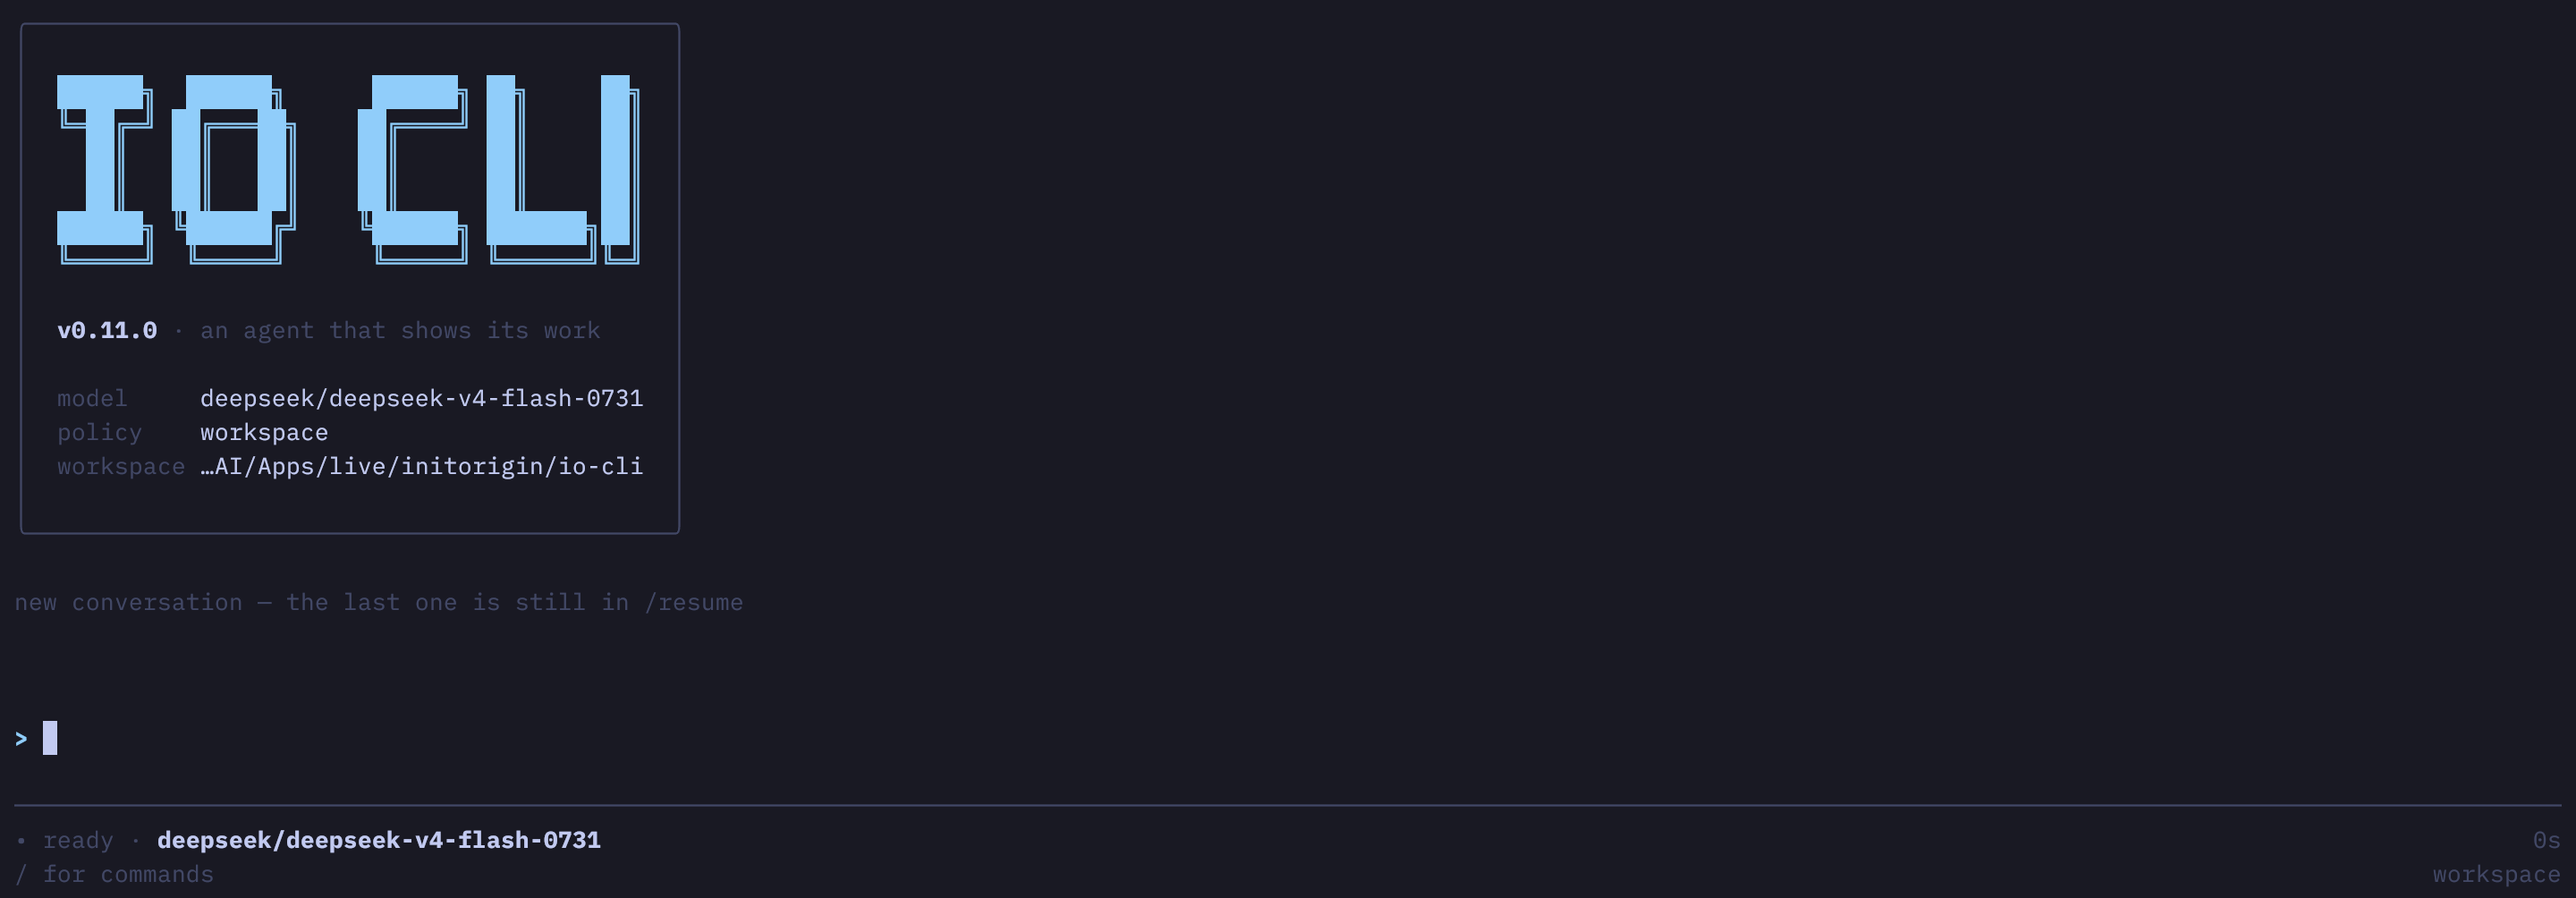
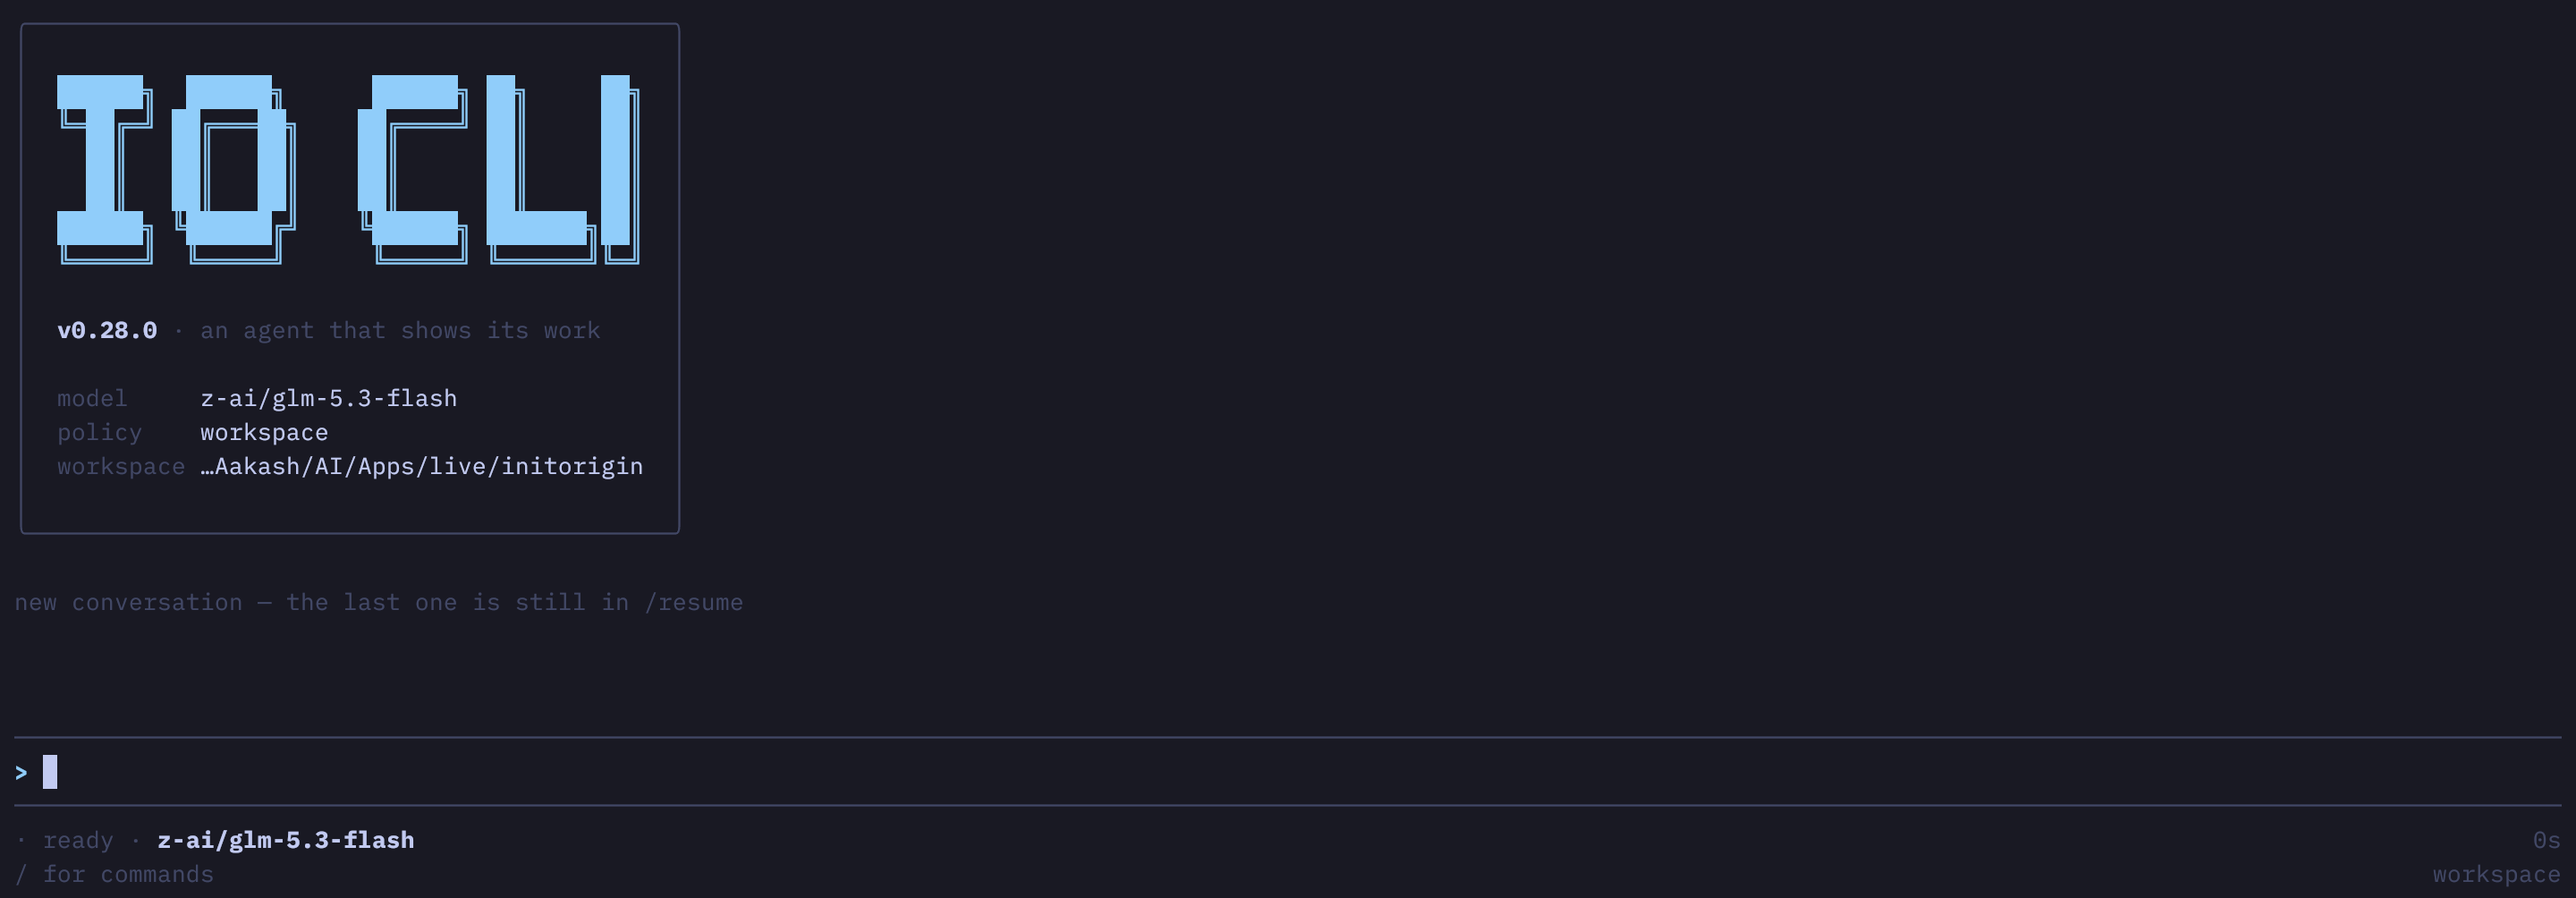
docs: take in the updated screenshot
Captured at v0.28.0, with the card's model and the footer's model agreeing.

The alt text gained the two things the picture now shows and did not before — the
tagline beside the version, and the muted line saying this is a new conversation
with the last one still in /resume. Its account of the footer is unchanged and
was already right: state, model and clock on the first row, the keys and the
posture on the second. Alt text is the only form of this picture a screen reader
gets, so it is checked against the image rather than carried forward.

diff --git a/README.md b/README.md
@@ -26,9 +26,11 @@ if this crate ever grows an HTTP client, a TLS stack, a database or a sandbox.
 - [What this release is not](#what-this-release-is-not) · [Platform support](#platform-support) · [Stability](#stability)
 
 ![A session at rest: the IO CLI card in the terminal's own scrollback, carrying
-the version, the model, the permission posture and the workspace; a prompt below
-it; and a two-row footer under a rule, naming the state, the model and the clock
-on one row and the keys and the posture on the next.](docs/screenshot.png)
+the version and the tagline above the model, the permission posture and the
+workspace; a muted line saying this is a new conversation and the last one is
+still in /resume; an empty prompt below it; and a two-row footer under a rule,
+naming the state, the model and the clock on one row and the keys and the
+posture on the next.](docs/screenshot.png)
 
 ## What you get
 
